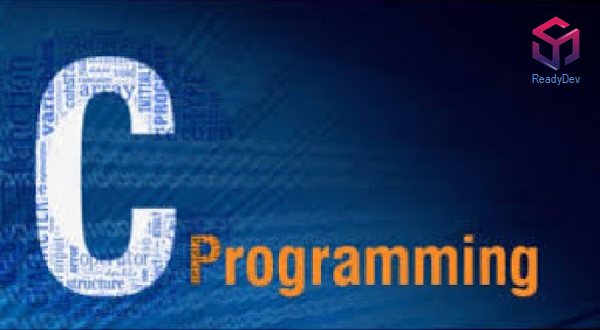
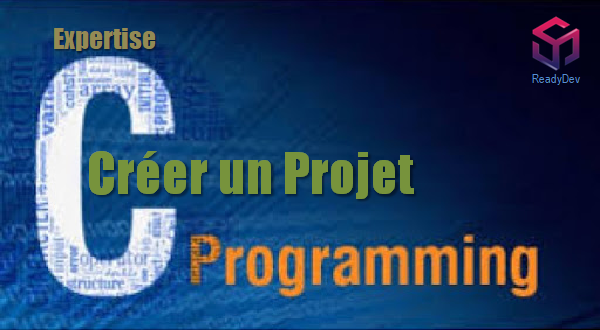
Initial Commit

Changed region(s): [[0.15, 0.4545, 0.69, 0.6061], [0.09, 0.0606, 0.27, 0.1818]]

diff --git a/Tutoriels/C0/Project/page/main.php b/Tutoriels/C0/Project/page/main.php
@@ -1,4 +1,4 @@
-<div class="Parallax GParallax1"><div class="Img Binary"><div class="Caption"><a href="#"><div class="Text">Créer un projet en C</div></a></div></div><div class="Body2 Orange">Le but de ce tutoriel est de vous apprendre créer un projet en <b>C</b>.<br>Produit par <b>Gérard KESSE</b>.<br><br><div class="Content0 GSummary1"><div class="Body0" id="Loader_1529412976174"><div class="Row26">Summary 1</div></div><script>loadSummary1("Loader_1529412976174");</script></div></div></div><br><div class="Content2 GTitle1"><div class="MainBlock2"><div class="Content"><h1 class="Title2 Center" id="Introduction"><a class="Link3" href="#">Introduction</a></h1><div class="Body3"><b>C </b>est un langage de programmation impératif généraliste, de bas niveau offrant au développeur une marge de contrôle importante sur la machine (notamment sur la gestion de la mémoire) et est de ce fait utilisé pour réaliser les fondations (compilateurs, interpréteurs) des langages plus modernes. <br><br><div class="Img3 GImage"><img src="/data/img/defaults/banner_c.png" alt="/data/img/defaults/banner_c.png"></div><br></div></div></div></div><br><div class="Content2 GTitle1"><div class="MainBlock2"><div class="Content"><h1 class="Title2 Center" id="Prérequis"><a class="Link3" href="#">Prérequis</a></h1><div class="Body3"><br><div class="Content0 GSummary2"><div class="Body0" id="Loader_1598229424466"><div class="Row26">Summary 2</div></div><script>loadSummary2("Loader_1598229424466");</script></div><br><h2 class="Title7 GTitle2" id="Prérequis-Objectif"><a class="Link9" href="#Prérequis">Objectif</a></h2><br>$\checkmark$ Créer un projet en C<br><br><h2 class="Title7 GTitle2" id="Prérequis-Procédure sous Windows"><a class="Link9" href="#Prérequis">Procédure sous Windows</a></h2><br>$\checkmark$ Installer MinGW<br>$\checkmark$ Installer Notepad++<br>$\checkmark$ Créer le projet<br>$\checkmark$ Créer le fichier Makefile<br>$\checkmark$ Compiler le projet<br>$\checkmark$ Exécuter le projet<br><br></div></div></div></div><br><div class="Content2 GTitle1"><div class="MainBlock2"><div class="Content"><h1 class="Title2 Center" id="Installer MinGW"><a class="Link3" href="#">Installer MinGW</a></h1><div class="Body3"><br><div class="Content0 GSummary2"><div class="Body0" id="Loader_1598229395510"><div class="Row26">Summary 2</div></div><script>loadSummary2("Loader_1598229395510");</script></div><br><h2 class="Title7 GTitle2" id="Installer MinGW-Utilité"><a class="Link9" href="#Installer MinGW">Utilité</a></h2><br>$\checkmark$ Fournir un constructeur de projet C (mingw32-make)<br>$\checkmark$ Fournir un compilateur de projet C (gcc)<br><br><h2 class="Title7 GTitle2" id="Installer MinGW-Procédure d'installation"><a class="Link9" href="#Installer MinGW">Procédure d'installation</a></h2><br>$\checkmark$ Télécharger MinGW<br>$\checkmark$ Installer MinGW<br><br><h2 class="Title7 GTitle2" id="Installer MinGW-Télécharger MinGW"><a class="Link9" href="#Installer MinGW">Télécharger MinGW</a></h2><br><a class="Link7 GLink1" style="color:lime;" target="_blank" href="http://www.mingw.org/">http://www.mingw.org/</a><br><br></div></div></div></div><br><div class="Content2 GTitle1"><div class="MainBlock2"><div class="Content"><h1 class="Title2 Center" id="Installer Notepad++"><a class="Link3" href="#">Installer Notepad++</a></h1><div class="Body3"><br><div class="Content0 GSummary2"><div class="Body0" id="Loader_1598229484263"><div class="Row26">Summary 2</div></div><script>loadSummary2("Loader_1598229484263");</script></div><br><h2 class="Title7 GTitle2" id="Installer Notepad++-Utilité"><a class="Link9" href="#Installer Notepad++">Utilité</a></h2><br>$\checkmark$ Éditer le code source du programme<br><br><h2 class="Title7 GTitle2" id="Installer Notepad++-Procédure d'installation"><a class="Link9" href="#Installer Notepad++">Procédure d'installation</a></h2><br>$\checkmark$ Télécharger Notepad++<br>$\checkmark$ Installer Notepad++<br><br><h2 class="Title7 GTitle2" id="Installer Notepad++-Télécharger Notepad++"><a class="Link9" href="#Installer Notepad++">Télécharger Notepad++</a></h2><br><a class="Link7 GLink1" style="color:lime;" target="_blank" href="https://notepad-plus-plus.org/downloads/">https://notepad-plus-plus.org/downloads/</a><br><br></div></div></div></div><br><div class="Content2 GTitle1"><div class="MainBlock2"><div class="Content"><h1 class="Title2 Center" id="Créer le projet C"><a class="Link3" href="#">Créer le projet C</a></h1><div class="Body3"><br><div class="Content0 GSummary2"><div class="Body0" id="Loader_1598229238155"><div class="Row26">Summary 2</div></div><script>loadSummary2("Loader_1598229238155");</script></div><br><h2 class="Title7 GTitle2" id="Créer le projet C-Objectif"><a class="Link9" href="#Créer le projet C">Objectif</a></h2><br>$\checkmark$ Afficher un message<br>$\checkmark$ Bonjour tout le monde<br><br><h2 class="Title7 GTitle2" id="Créer le projet C-Code source"><a class="Link9" href="#Créer le projet C">Code source</a></h2><br><h3 class="Title8 GTitle3">c_project/main.c</h3><br><div class="GCode1"><pre class="Code2"><xmp class="AceCode" data-mode="c_cpp">//===============================================
+<div class="Parallax GParallax1"><div class="Img Binary"><div class="Caption"><a href="#"><div class="Text">Créer un projet en C</div></a></div></div><div class="Body2 Orange">Le but de ce tutoriel est de vous apprendre créer un projet en <b>C</b>.<br>Produit par <b>Gérard KESSE</b>.<br><br><div class="Content0 GSummary1"><div class="Body0" id="Loader_1529412976174"><div class="Row26">Summary 1</div></div><script>loadSummary1("Loader_1529412976174");</script></div></div></div><br><div class="Content2 GTitle1"><div class="MainBlock2"><div class="Content"><h1 class="Title2 Center" id="Introduction"><a class="Link3" href="#">Introduction</a></h1><div class="Body3"><b>C </b>est un langage de programmation impératif généraliste, de bas niveau offrant au développeur une marge de contrôle importante sur la machine (notamment sur la gestion de la mémoire) et est de ce fait utilisé pour réaliser les fondations (compilateurs, interpréteurs) des langages plus modernes. <br><br><div class="Img3 GImage"><img src="/data/img/defaults/banner_c_project.png" alt="/data/img/defaults/banner_c_project.png"></div><br></div></div></div></div><br><div class="Content2 GTitle1"><div class="MainBlock2"><div class="Content"><h1 class="Title2 Center" id="Prérequis"><a class="Link3" href="#">Prérequis</a></h1><div class="Body3"><br><div class="Content0 GSummary2"><div class="Body0" id="Loader_1598229424466"><div class="Row26">Summary 2</div></div><script>loadSummary2("Loader_1598229424466");</script></div><br><h2 class="Title7 GTitle2" id="Prérequis-Objectif"><a class="Link9" href="#Prérequis">Objectif</a></h2><br>$\checkmark$ Créer un projet en C<br><br><h2 class="Title7 GTitle2" id="Prérequis-Procédure sous Windows"><a class="Link9" href="#Prérequis">Procédure sous Windows</a></h2><br>$\checkmark$ Installer MinGW<br>$\checkmark$ Installer Notepad++<br>$\checkmark$ Créer le projet<br>$\checkmark$ Créer le fichier Makefile<br>$\checkmark$ Compiler le projet<br>$\checkmark$ Exécuter le projet<br><br></div></div></div></div><br><div class="Content2 GTitle1"><div class="MainBlock2"><div class="Content"><h1 class="Title2 Center" id="Installer MinGW"><a class="Link3" href="#">Installer MinGW</a></h1><div class="Body3"><br><div class="Content0 GSummary2"><div class="Body0" id="Loader_1598229395510"><div class="Row26">Summary 2</div></div><script>loadSummary2("Loader_1598229395510");</script></div><br><h2 class="Title7 GTitle2" id="Installer MinGW-Utilité"><a class="Link9" href="#Installer MinGW">Utilité</a></h2><br>$\checkmark$ Fournir un constructeur de projet C (mingw32-make)<br>$\checkmark$ Fournir un compilateur de projet C (gcc)<br><br><h2 class="Title7 GTitle2" id="Installer MinGW-Procédure d'installation"><a class="Link9" href="#Installer MinGW">Procédure d'installation</a></h2><br>$\checkmark$ Télécharger MinGW<br>$\checkmark$ Installer MinGW<br><br><h2 class="Title7 GTitle2" id="Installer MinGW-Télécharger MinGW"><a class="Link9" href="#Installer MinGW">Télécharger MinGW</a></h2><br><a class="Link7 GLink1" style="color:lime;" target="_blank" href="http://www.mingw.org/">http://www.mingw.org/</a><br><br></div></div></div></div><br><div class="Content2 GTitle1"><div class="MainBlock2"><div class="Content"><h1 class="Title2 Center" id="Installer Notepad++"><a class="Link3" href="#">Installer Notepad++</a></h1><div class="Body3"><br><div class="Content0 GSummary2"><div class="Body0" id="Loader_1598229484263"><div class="Row26">Summary 2</div></div><script>loadSummary2("Loader_1598229484263");</script></div><br><h2 class="Title7 GTitle2" id="Installer Notepad++-Utilité"><a class="Link9" href="#Installer Notepad++">Utilité</a></h2><br>$\checkmark$ Éditer le code source du programme<br><br><h2 class="Title7 GTitle2" id="Installer Notepad++-Procédure d'installation"><a class="Link9" href="#Installer Notepad++">Procédure d'installation</a></h2><br>$\checkmark$ Télécharger Notepad++<br>$\checkmark$ Installer Notepad++<br><br><h2 class="Title7 GTitle2" id="Installer Notepad++-Télécharger Notepad++"><a class="Link9" href="#Installer Notepad++">Télécharger Notepad++</a></h2><br><a class="Link7 GLink1" style="color:lime;" target="_blank" href="https://notepad-plus-plus.org/downloads/">https://notepad-plus-plus.org/downloads/</a><br><br></div></div></div></div><br><div class="Content2 GTitle1"><div class="MainBlock2"><div class="Content"><h1 class="Title2 Center" id="Créer le projet C"><a class="Link3" href="#">Créer le projet C</a></h1><div class="Body3"><br><div class="Content0 GSummary2"><div class="Body0" id="Loader_1598229238155"><div class="Row26">Summary 2</div></div><script>loadSummary2("Loader_1598229238155");</script></div><br><h2 class="Title7 GTitle2" id="Créer le projet C-Objectif"><a class="Link9" href="#Créer le projet C">Objectif</a></h2><br>$\checkmark$ Afficher un message<br>$\checkmark$ Bonjour tout le monde<br><br><h2 class="Title7 GTitle2" id="Créer le projet C-Code source"><a class="Link9" href="#Créer le projet C">Code source</a></h2><br><h3 class="Title8 GTitle3">c_project/main.c</h3><br><div class="GCode1"><pre class="Code2"><xmp class="AceCode" data-mode="c_cpp">//===============================================
 #include &lt;stdio.h&gt;
 //===============================================
 int main(int argc, char** argv) {

diff --git a/Tutoriels/C0/Struct/page/main.php b/Tutoriels/C0/Struct/page/main.php
@@ -1,4 +1,4 @@
-<div class="Parallax GParallax1"><div class="Img Binary"><div class="Caption"><a href="#"><div class="Text">Créer une structure en C</div></a></div></div><div class="Body2 Orange">Le but de ce tutoriel est de vous apprendre créer une structure en <b>C</b>.<br>Produit par <b>Gérard KESSE</b>.<br><br><div class="Content0 GSummary1"><div class="Body0" id="Loader_1529412976174"><div class="Row26">Summary 1</div></div><script>loadSummary1("Loader_1529412976174");</script></div></div></div><br><div class="Content2 GTitle1"><div class="MainBlock2"><div class="Content"><h1 class="Title2 Center" id="Introduction"><a class="Link3" href="#">Introduction</a></h1><div class="Body3"><b>C </b>est un langage de programmation impératif généraliste, de bas niveau offrant au développeur une marge de contrôle importante sur la machine (notamment sur la gestion de la mémoire) et est de ce fait utilisé pour réaliser les fondations (compilateurs, interpréteurs) des langages plus modernes. <br><br><div class="Img3 GImage"><img src="/data/img/defaults/banner_c.png" alt="/data/img/defaults/banner_c.png"></div><br></div></div></div></div><br><div class="Content2 GTitle1"><div class="MainBlock2"><div class="Content"><h1 class="Title2 Center" id="Prérequis"><a class="Link3" href="#">Prérequis</a></h1><div class="Body3"><br><div class="Content0 GSummary2"><div class="Body0" id="Loader_1598229424466"><div class="Row26">Summary 2</div></div><script>loadSummary2("Loader_1598229424466");</script></div><br><h2 class="Title7 GTitle2" id="Prérequis-Objectif"><a class="Link9" href="#Prérequis">Objectif</a></h2><br>$\checkmark$ Créer une structure en C<br><br><h2 class="Title7 GTitle2" id="Prérequis-Plan du projet"><a class="Link9" href="#Prérequis">Plan du projet</a></h2><br>$\checkmark$ Créer une structure<br>$\checkmark$ Créer les méthodes de gestion<br>$\checkmark$ Créer le programme de test<br>$\checkmark$ Présenter les résultats<br><br></div></div></div></div><br><div class="Content2 GTitle1"><div class="MainBlock2"><div class="Content"><h1 class="Title2 Center" id="Créer une structure"><a class="Link3" href="#">Créer une structure</a></h1><div class="Body3"><br><div class="Content0 GSummary2"><div class="Body0" id="Loader_1598335390353"><div class="Row26">Summary 2</div></div><script>loadSummary2("Loader_1598335390353");</script></div><br><h2 class="Title7 GTitle2" id="Créer une structure-Utilité"><a class="Link9" href="#Créer une structure">Utilité</a></h2><br>$\checkmark$ Créer un type de données composite<br>$\checkmark$ Grouper plusieurs données dans un type<br><br><h2 class="Title7 GTitle2" id="Créer une structure-Ce que nous voulons faire"><a class="Link9" href="#Créer une structure">Ce que nous voulons faire</a></h2><br>$\checkmark$ Créer une structure utilisateur (sGUser)<br>$\checkmark$ Définir les propriétés d'un utilisateur<br>$\checkmark$ Déclarer la structure utilisateur<br>$\checkmark$ Définir la structure utilisateur<br><br><h2 class="Title7 GTitle2" id="Créer une structure-Propriétés d'un utilisateur"><a class="Link9" href="#Créer une structure">Propriétés d'un utilisateur</a></h2><br>$\checkmark$ Nom de l'utilisateur (name)<br>$\checkmark$ Adresse email de l'utilisateur (email)<br>$\checkmark$ Mot de passe de l'utilisateur (password)<br><br><h2 class="Title7 GTitle2" id="Créer une structure-Code de déclaration de la structure"><a class="Link9" href="#Créer une structure">Code de déclaration de la structure</a></h2><br><div class="GCode1"><pre class="Code2"><xmp class="AceCode" data-mode="c_cpp">//===============================================
+<div class="Parallax GParallax1"><div class="Img Binary"><div class="Caption"><a href="#"><div class="Text">Créer une structure en C</div></a></div></div><div class="Body2 Orange">Le but de ce tutoriel est de vous apprendre créer une structure en <b>C</b>.<br>Produit par <b>Gérard KESSE</b>.<br><br><div class="Content0 GSummary1"><div class="Body0" id="Loader_1529412976174"><div class="Row26">Summary 1</div></div><script>loadSummary1("Loader_1529412976174");</script></div></div></div><br><div class="Content2 GTitle1"><div class="MainBlock2"><div class="Content"><h1 class="Title2 Center" id="Introduction"><a class="Link3" href="#">Introduction</a></h1><div class="Body3"><b>C </b>est un langage de programmation impératif généraliste, de bas niveau offrant au développeur une marge de contrôle importante sur la machine (notamment sur la gestion de la mémoire) et est de ce fait utilisé pour réaliser les fondations (compilateurs, interpréteurs) des langages plus modernes. <br><br><div class="Img3 GImage"><img src="/data/img/defaults/banner_c_struct.png" alt="/data/img/defaults/banner_c_struct.png"></div><br></div></div></div></div><br><div class="Content2 GTitle1"><div class="MainBlock2"><div class="Content"><h1 class="Title2 Center" id="Prérequis"><a class="Link3" href="#">Prérequis</a></h1><div class="Body3"><br><div class="Content0 GSummary2"><div class="Body0" id="Loader_1598229424466"><div class="Row26">Summary 2</div></div><script>loadSummary2("Loader_1598229424466");</script></div><br><h2 class="Title7 GTitle2" id="Prérequis-Objectif"><a class="Link9" href="#Prérequis">Objectif</a></h2><br>$\checkmark$ Créer une structure en C<br><br><h2 class="Title7 GTitle2" id="Prérequis-Plan du projet"><a class="Link9" href="#Prérequis">Plan du projet</a></h2><br>$\checkmark$ Créer une structure<br>$\checkmark$ Créer les méthodes de gestion<br>$\checkmark$ Créer le programme de test<br>$\checkmark$ Présenter les résultats<br><br></div></div></div></div><br><div class="Content2 GTitle1"><div class="MainBlock2"><div class="Content"><h1 class="Title2 Center" id="Créer une structure"><a class="Link3" href="#">Créer une structure</a></h1><div class="Body3"><br><div class="Content0 GSummary2"><div class="Body0" id="Loader_1598335390353"><div class="Row26">Summary 2</div></div><script>loadSummary2("Loader_1598335390353");</script></div><br><h2 class="Title7 GTitle2" id="Créer une structure-Utilité"><a class="Link9" href="#Créer une structure">Utilité</a></h2><br>$\checkmark$ Créer un type de données composite<br>$\checkmark$ Grouper plusieurs données dans un type<br><br><h2 class="Title7 GTitle2" id="Créer une structure-Ce que nous voulons faire"><a class="Link9" href="#Créer une structure">Ce que nous voulons faire</a></h2><br>$\checkmark$ Créer une structure utilisateur (sGUser)<br>$\checkmark$ Définir les propriétés d'un utilisateur<br>$\checkmark$ Déclarer la structure utilisateur<br>$\checkmark$ Définir la structure utilisateur<br><br><h2 class="Title7 GTitle2" id="Créer une structure-Propriétés d'un utilisateur"><a class="Link9" href="#Créer une structure">Propriétés d'un utilisateur</a></h2><br>$\checkmark$ Nom de l'utilisateur (name)<br>$\checkmark$ Adresse email de l'utilisateur (email)<br>$\checkmark$ Mot de passe de l'utilisateur (password)<br><br><h2 class="Title7 GTitle2" id="Créer une structure-Code de déclaration de la structure"><a class="Link9" href="#Créer une structure">Code de déclaration de la structure</a></h2><br><div class="GCode1"><pre class="Code2"><xmp class="AceCode" data-mode="c_cpp">//===============================================
 typedef struct _sGUser sGUser;
 //===============================================</xmp></pre></div><br><h2 class="Title7 GTitle2" id="Créer une structure-Code de définition de la structure"><a class="Link9" href="#Créer une structure">Code de définition de la structure</a></h2><br><div class="GCode1"><pre class="Code2"><xmp class="AceCode" data-mode="c_cpp">//===============================================
 struct _sGUser {
